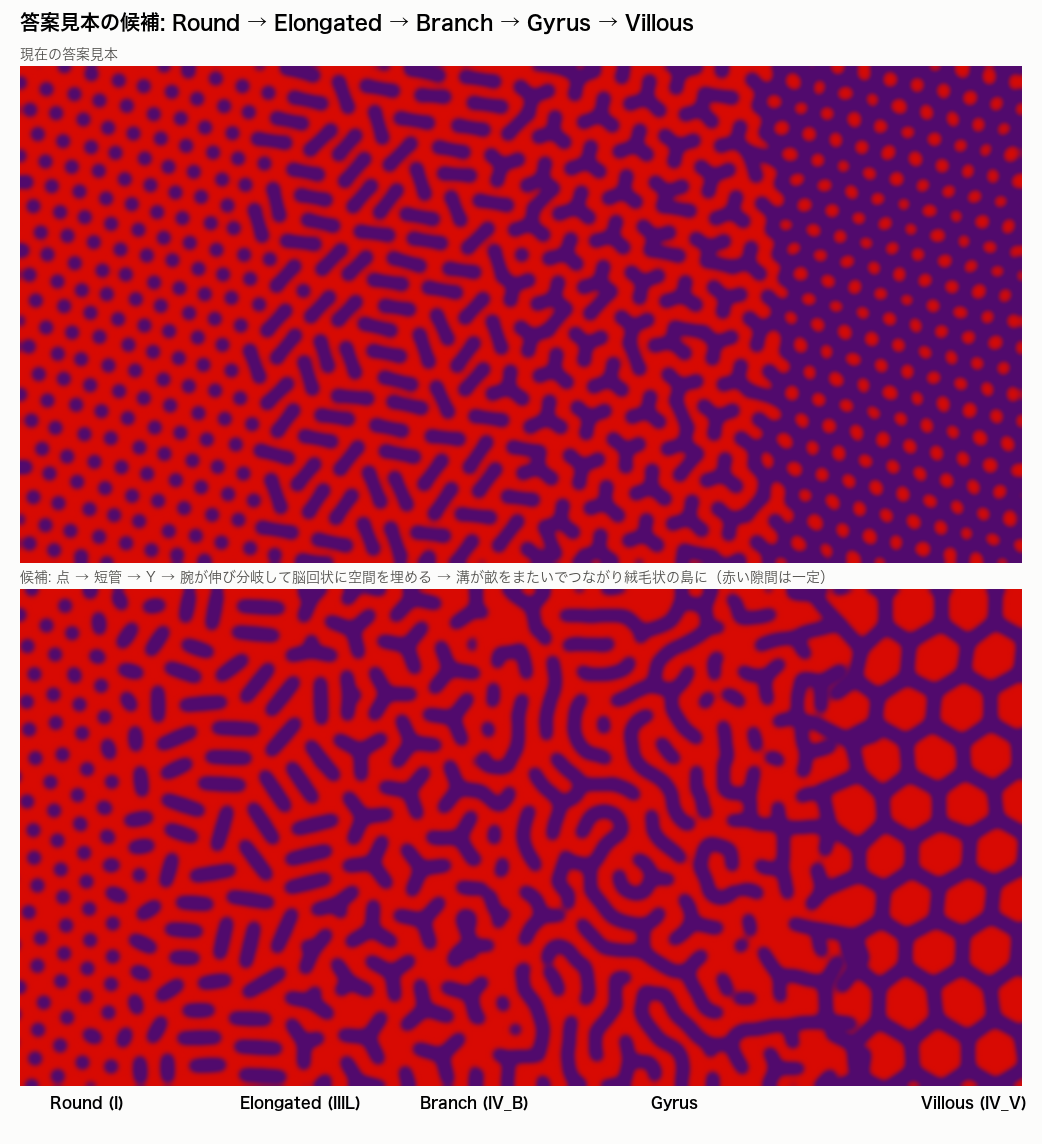
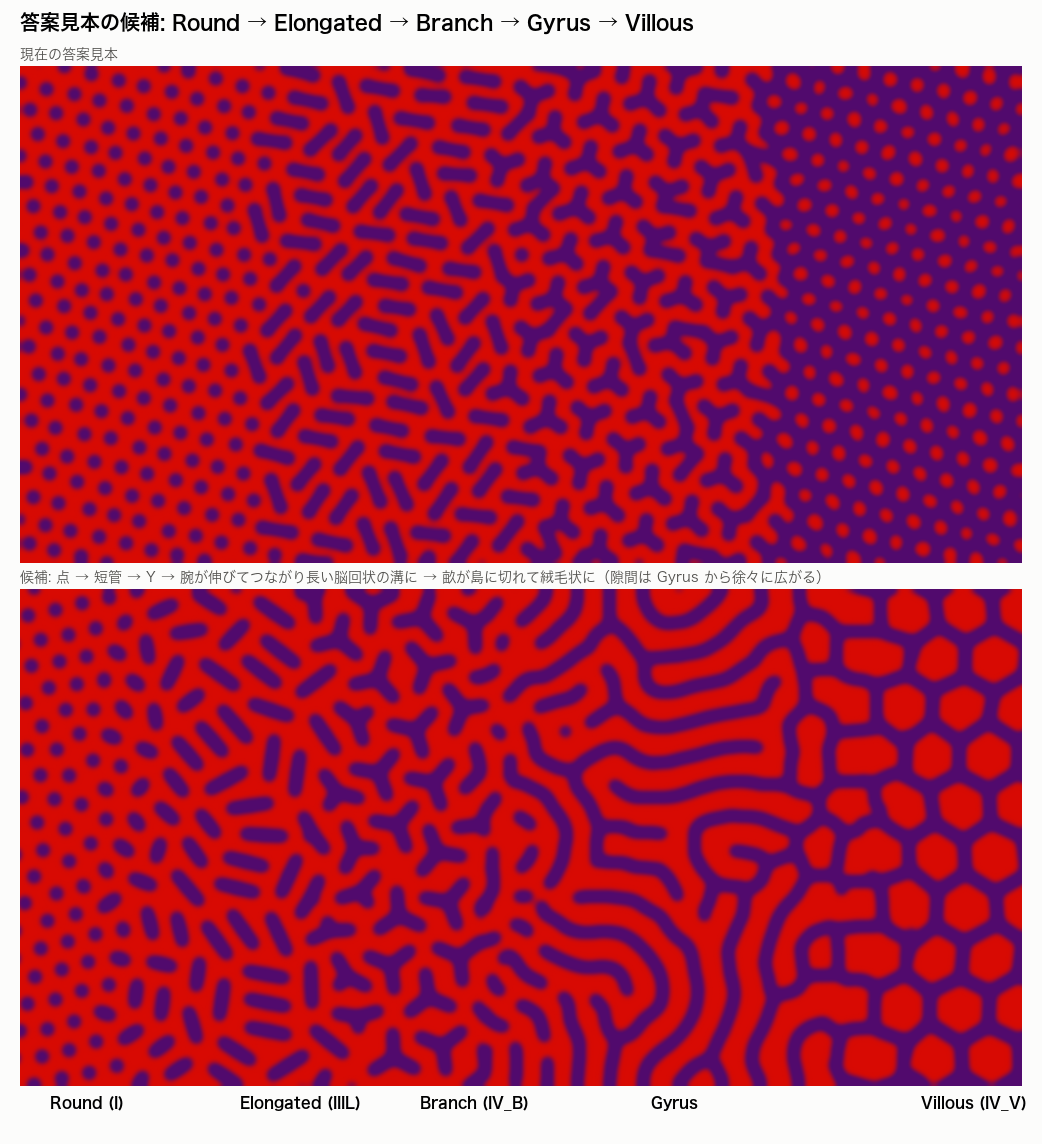
Answer image: long smooth gyrus, ridges break into villous islands
Steer the drawn answer image toward the Gemini reference image:
- the groove pitch widens within one field (D up to Branch, 1.25 D at full
  gyrus, the honeycomb row spacing at villous) by blending three
  constant-pitch Swift-Hohenberg steps
- a quadratic term breaks the red ridges into elongated islands that round
  up and lock onto the honeycomb
- longer relaxation and earlier end of groove cuts give long, smooth,
  winding gyrus grooves; the Gyrus band is wider

Goal doc: the red gap is constant only up to Branch and widens gradually
from Gyrus to Villous. Add the Gemini image as a reference.

Changed region(s): [[0.0, 0.4895, 0.9827, 0.9484]]

diff --git a/src/pitpattern/figures/make_pit_gyrus_sweep.py b/src/pitpattern/figures/make_pit_gyrus_sweep.py
@@ -2,14 +2,15 @@
 """Answer-image candidate: Round -> Elongated -> Branch -> Gyrus -> Villous (drawn target).
 
 Progression q(x) rises smoothly from 0 (left) to 4 (right).  One crypt = one pit unit;
-the red gap between pit grooves stays the Type I gap everywhere.
+the red gap between pit grooves stays the Type I gap up to Branch and widens from Gyrus on.
   q 0-1  Round -> Elongated   a dot grows into a straight tube
   q 1-2  Elongated -> Branch  a third arm sprouts, the tube opens into a Y (one fork)
   q 2-3  Branch -> Gyrus      the Y arms keep growing tip-wise, turning and occasionally
-                              forking, always keeping the gap D from every other groove,
-                              until the grooves fill space as a winding gyrus pattern
-  q 3-4  Gyrus -> Villous     groove tips bridge the red ridges to the neighbouring groove,
-                              cutting the ridges into islands (villi)
+                              forking; a Swift-Hohenberg relaxation then joins them into long,
+                              smooth, winding grooves whose pitch widens slowly (D -> 1.25 D)
+  q 3-4  Gyrus -> Villous     within the same field the pitch widens to the honeycomb spacing
+                              and a quadratic term breaks the red ridges into elongated
+                              islands, which round up and lock onto the honeycomb (villi)
 Crypt positions/orientations for q <= 2 come from the constant-gap relaxation of
 make_pit_grade_sweep; growth is a self-avoiding tip growth with a length budget that
 increases with q.  This is a drawn target, not a simulation of tissue.
@@ -83,19 +84,25 @@ def main() -> None:
     ap.add_argument("--arm-len", type=float, default=24.0, help="IV_B arm length (px)")
     ap.add_argument("--villous-area", type=float, default=0.35, help="area per crypt in villous / Branch")
     ap.add_argument("--fork", type=float, default=0.12, help="fork probability per step in gyrus")
-    ap.add_argument("--maze-steps", type=int, default=100, help="Swift-Hohenberg steps for the gyrus maze (0 = off)")
+    ap.add_argument("--maze-steps", type=int, default=180, help="Swift-Hohenberg steps for the gyrus maze (0 = off)")
     ap.add_argument("--blend", choices=["continuous", "patchy"], default="continuous")
     ap.add_argument("--m-from", type=float, default=2.2)
     ap.add_argument("--m-gain", type=float, default=3.0)
-    ap.add_argument("--h-from", type=float, default=3.0)
+    ap.add_argument("--h-from", type=float, default=3.25)
     ap.add_argument("--h-gain", type=float, default=1.6)
-    ap.add_argument("--pin", type=float, default=0.15)
-    ap.add_argument("--g-villous", type=float, default=0.0, help="quadratic term at full villous (field method)")
-    ap.add_argument("--g-from", type=float, default=3.0)
+    ap.add_argument("--pin", type=float, default=0.25)
+    ap.add_argument("--g-villous", type=float, default=-1.5, help="quadratic term at full villous (< 0: red islands)")
+    ap.add_argument("--lam-from", type=float, default=2.7, help="q where the groove pitch starts to widen")
+    ap.add_argument("--lam-gyrus", type=float, default=1.25, help="groove pitch at full gyrus (units of D)")
+    ap.add_argument("--lam-villous", type=float, default=0.0, help="groove pitch at villous (units of D); 0 = honeycomb row spacing")
+    ap.add_argument("--q-knots", type=float, nargs=4, default=[0.57, 0.73, 0.92, 1.0],
+                    help="u where q reaches 3, leaves 3, reaches 4, ends")
+    ap.add_argument("--no-honeycomb", action="store_true", help="never paste the drawn honeycomb; villous comes from the field")
+    ap.add_argument("--g-from", type=float, default=2.95)
     ap.add_argument("--g-gain", type=float, default=1.2)
     ap.add_argument("--seg-short", type=float, default=1.0, help="maze segment length at gyrus onset (units of D)")
     ap.add_argument("--seg-long", type=float, default=6.0, help="maze segment length just before cuts stop (units of D)")
-    ap.add_argument("--cut-until", type=float, default=3.3, help="no cuts beyond this q (long maze into villous)")
+    ap.add_argument("--cut-until", type=float, default=2.9, help="no cuts beyond this q (long maze into villous)")
     ap.add_argument("--maze-g", type=float, default=0.0, help="quadratic term (favours junctions)")
     ap.add_argument("--maze-r", type=float, default=0.3, help="Swift-Hohenberg control parameter")
     ap.add_argument("--maze-cover", type=float, default=0.0, help="purple fraction of the maze (groove width / spacing)")
@@ -110,7 +117,7 @@ def main() -> None:
 
     def q_of(x):
         u = (x - pad) / Wv
-        return np.interp(u, [0.0, 0.03, 0.20, 0.23, 0.31, 0.43, 0.54, 0.68, 0.88, 1.0],
+        return np.interp(u, [0.0, 0.03, 0.20, 0.23, 0.31, 0.43, *a.q_knots],
                          [0, 0, 1, 1, 2, 2, 3, 3, 4, 4])
 
     def expand(qq):
@@ -376,6 +383,13 @@ def main() -> None:
         dt = 0.3
         den = 1 - dt * (lin - 1)
         qx = q_of(np.arange(Wb, dtype=float))
+        # groove pitch lam(x): D up to the gyrus onset, lam_gyrus at full gyrus, the honeycomb
+        # row spacing at villous.  The step is a blend of three constant-pitch steps.
+        lam_v = a.lam_villous * D if a.lam_villous > 0 else 1.5 * b
+        levels = np.array([D, max(a.lam_gyrus * D, D + 1e-3), max(lam_v, a.lam_gyrus * D + 2e-3)])
+        lam_x = np.interp(qx, [a.lam_from, 3.0, 4.0], levels)
+        dens = [1 - dt * (a.maze_r - (1 - K2 / (2 * np.pi / L_) ** 2) ** 2 - 1) for L_ in levels]
+        wts = [np.interp(lam_x, levels, np.eye(3)[i])[None, :] for i in range(3)]
         if a.blend == "continuous":
             # one field for Branch -> Gyrus -> Villous: the relaxation rate m(x) rises from 0
             # (trees kept) to 1 (equal-spacing maze); towards Villous a pinning h(x) pulls the
@@ -390,9 +404,8 @@ def main() -> None:
             # of red islands within the same field (labyrinth -> hexagonal islands)
             g_x = a.g_villous * smooth(a.g_gain * (qx - a.g_from))[None, :]
             for _ in range(a.maze_steps):
-                u_sh = np.fft.ifft2((np.fft.fft2(u) + dt * np.fft.fft2(u - u ** 3 + a.maze_g * u * u)) / den).real
-                if a.g_villous:
-                    u_sh = u_sh + dt * g_x * u * u
+                F = np.fft.fft2(u) + dt * np.fft.fft2(u - u ** 3 + (a.maze_g + g_x) * u * u)
+                u_sh = sum(w_ * np.fft.ifft2(F / d_).real for w_, d_ in zip(wts, dens))
                 u = u + np.maximum(m_x, h_x) * (u_sh - u) + a.pin * h_x * (T - u)
         else:
             u0 = 2 * cv2.GaussianBlur(field, (0, 0), 2.0) - 1
@@ -441,7 +454,7 @@ def main() -> None:
         maze = cv2.resize(mm.astype(np.float32), (Wb, Hb), interpolation=cv2.INTER_AREA)
         if a.blend == "continuous":
             act = np.maximum(m_x, h_x)
-            keep = (act < 0.02) | (h_x > 0.98)                 # untouched trees / pure honeycomb
+            keep = (act < 0.02) | ((h_x > 0.98) & (not a.no_honeycomb))   # untouched trees / pure honeycomb
             field = np.where(np.broadcast_to(keep, field.shape), field, maze)
             qx = None
         wx = None if qx is None else smooth(2.0 * (qx - 2.5)) * (1 - smooth(1.6 * (qx - 3.05)))
@@ -475,7 +488,7 @@ def main() -> None:
     d.text((20, 12), "答案見本の候補: Round → Elongated → Branch → Gyrus → Villous", fill="black", font=font(20, True))
     d.text((20, 46), "現在の答案見本", fill="#52514e", font=font(14))
     sheet.paste(target, (20, 66))
-    d.text((20, 72 + Hv), "候補: 点 → 短管 → Y → 腕が伸び分岐して脳回状に空間を埋める → 溝が畝をまたいでつながり絨毛状の島に（赤い隙間は一定）",
+    d.text((20, 72 + Hv), "候補: 点 → 短管 → Y → 腕が伸びてつながり長い脳回状の溝に → 畝が島に切れて絨毛状に（隙間は Gyrus から徐々に広がる）",
            fill="#52514e", font=font(14))
     sheet.paste(Image.fromarray(rgb), (20, 92 + Hv))
     for cx_, nm in zip((0.03, 0.22, 0.40, 0.63, 0.90), ("Round (I)", "Elongated (IIIL)", "Branch (IV_B)", "Gyrus", "Villous (IV_V)")):

diff --git a/docs/pit_pattern_goal.md b/docs/pit_pattern_goal.md
@@ -12,7 +12,7 @@
 Round (I)  →  Elongated (IIIL)  →  Branch (IV_B)  →  Gyrus (IV)  →  Villous (IV_V)
 ```
 
-**の順に、なめらかに変わる。溝（pit）の太さは全段階で一定、溝どうしの赤い隙間も Gyrus まで一定で、変わるのは長さ・分岐・つながり方だけ。**
+**の順に、なめらかに変わる。溝（pit）の太さは全段階で一定。溝どうしの赤い隙間は Branch まで一定で、Gyrus から Villous に向けて徐々に広がる。それ以外に変わるのは長さ・分岐・つながり方だけ。**
 
 - 「Type らしい絵を別々の設定で描く」ことではない。スライド 6 の「I → IIIL → IV_B → IV_V の変化は連続的に表現できる」が本質。
 - 想定する組織像（2026-10-10）: 陰窩の底部の増殖帯は進行しても I 型のような均一な点の並びのまま。表層に上がるにつれ陰窩の口が開いて、1 つの陰窩の口が伸び（IIIL）、分岐し（IV_B）、さらに伸びて脳回状に詰まり（Gyrus）、隣と融合して粘膜が島（絨毛）になる（IV_V）。**陰窩の数は保たれ**、隆起型では表面積が増えるぶん単位面積あたりの陰窩の数が減る。
@@ -22,15 +22,15 @@ Round (I)  →  Elongated (IIIL)  →  Branch (IV_B)  →  Gyrus (IV)  →  Vill
 
 ![答案見本: Round → Elongated → Branch → Gyrus → Villous](images/pit_gyrus_sweep.png)
 
-*左から Round → Elongated → Branch → Gyrus → Villous。紫 = pit・溝、赤 = 粘膜。プログラムによる描画で、シミュレーション結果ではない（[`src/pitpattern/figures/make_pit_gyrus_sweep.py`](../src/pitpattern/figures/make_pit_gyrus_sweep.py)）。点の間隔 27.5 px、溝の太さ約 13 px、色はスライド 6 の実測値。上下比較は [`pit_gyrus_sweep_compare.png`](images/pit_gyrus_sweep_compare.png)。*
+*左から Round → Elongated → Branch → Gyrus → Villous。紫 = pit・溝、赤 = 粘膜。プログラムによる描画で、シミュレーション結果ではない（[`src/pitpattern/figures/make_pit_gyrus_sweep.py`](../src/pitpattern/figures/make_pit_gyrus_sweep.py)）。点の間隔 27.5 px、溝の太さ約 13 px、色はスライド 6 の実測値。溝の間隔は Branch まで点の間隔と同じで、Gyrus で約 1.25 倍、Villous で蜂の巣の間隔まで広がる。上下比較は [`pit_gyrus_sweep_compare.png`](images/pit_gyrus_sweep_compare.png)。*
 
 | 段階 | 目標像 |
 |---|---|
 | **Round（I）** | 赤地に紫の丸い点が、ほぼ規則的に並ぶ |
 | **Elongated（IIIL）** | 各陰窩の点がその場で伸びた**まっすぐな管**。短い楕円から長い管（点の約 2.5 倍）へ**徐々に**伸びる。管どうしは離れ、赤い隙間は I と同じ |
 | **Branch（IV_B）** | 各陰窩が**腕の長い Y**（分岐 1 回、腕は溝の太さの約 2 倍）。Y どうしは離れ、赤い隙間は I と同じ |
-| **Gyrus（IV）** | Y の腕がさらに伸びて曲がり・分岐し、**溝がぎっしり詰まった迷路**になる。迷路は**短い断片から長い迷路へ**徐々に長くなる。溝の太さと赤い隙間は一定（平行ストライプではない） |
-| **Villous（IV_V）** | 溝どうしが融合して網になり、**赤い粘膜が島（絨毛）として残る**。島は I の点より大きい（現在の見本で等価径約 2.5 倍） |
+| **Gyrus（IV）** | Y の腕がさらに伸びて隣とつながり、**長くなめらかな溝が並走しながら曲がり・分岐する脳回状の模様**になる。短い断片から長い溝へ徐々に長くなる。溝の太さは一定、溝の間隔は I の約 1.25 倍まで徐々に広がる（まっすぐな平行ストライプではない） |
+| **Villous（IV_V）** | 畝が横切る溝で切られて**細長い島**になり、丸まって**規則的な島（絨毛）**に落ち着く。溝は一定幅の網になる。島は I の点より大きい（現在の見本で等価径約 2.5 倍） |
 
 - **各段階はその形態だけで模様を作る**。隣の形態が混ざってよいのは移行領域だけ。
 - **単位は勝手に伸び続けない**。管・Y・迷路の長さは \(p\) で決まり、時間がたっても変わらない。
@@ -46,9 +46,9 @@ Round (I)  →  Elongated (IIIL)  →  Branch (IV_B)  →  Gyrus (IV)  →  Vill
 ### 3.1 必須（Must）
 
 - [ ] \(p\) の連続変化で **Round → Elongated → Branch → Gyrus → Villous** の順に移る（逆行しない、段階を飛ばさない）
-- [ ] **なめらかさ**: 隣の段階の間に中間形態がある（管が徐々に伸びる、Y の腕が伸びて迷路になる、迷路が徐々に長くなり網になる）
+- [ ] **なめらかさ**: 隣の段階の間に中間形態がある（管が徐々に伸びる、Y の腕が伸びてつながり脳回になる、畝が細長い島に切れて丸い島になる）
 - [ ] **段階の純度**: Elongated はほぼ管だけ、Branch はほぼ Y だけ（I の点が多く残らない）
-- [ ] **隙間一定**: Gyrus まで、溝どうしの赤い隙間が I の点どうしの隙間とほぼ同じ（ぶつからない、空白を残さない）
+- [ ] **隙間**: Branch まで、溝どうしの赤い隙間が I の点どうしの隙間とほぼ同じ。Gyrus から Villous へは**徐々に**広がる（急に広がらない）。どの段階でも溝どうしがぶつからず、大きな空白を残さない
 - [ ] **幅**: 溝の太さが全段階で一定（`feature_width_median / w₀ ≤ 1.5`、p90 ≤ 2.0。w₀ は I の pit の開口径）。数珠状・塊にならない
 - [ ] **Villous**: 一定幅の溝の網に、粘膜の島が規則的に残る
 - [ ] 十分長い時間のあとも上記が保たれる
@@ -62,7 +62,7 @@ Round (I)  →  Elongated (IIIL)  →  Branch (IV_B)  →  Gyrus (IV)  →  Vill
 |---|---|---|---|---|---|
 | 溝の太さ / w₀ | ≈ 1.0 | ≈ 1.0 | ≈ 1.0 | ≈ 1.0 | ≈ 1.0 |
 | 単位の形 | 丸（伸長比 ≲ 2） | 管（伸長比 2→4） | 三叉 1 個の Y | 分岐・屈曲した長い溝 | 網（粘膜が島） |
-| 赤い隙間 / I の隙間 | 1 | ≈ 1 | ≈ 1 | ≈ 1（空白なし） | — |
+| 溝の間隔 / I の点の間隔 | 1 | ≈ 1 | ≈ 1 | 1 → 約 1.25（空白なし） | 約 2（島の間隔） |
 | 最長成分比 | 低 | 低 | 低 | 中→高 | 高 |
 
 数値は画像とセットで読む。数値が合っていても、絵が幅暴走・平行ストライプ・空白だらけなら不合格。
@@ -75,7 +75,7 @@ Round (I)  →  Elongated (IIIL)  →  Branch (IV_B)  →  Gyrus (IV)  →  Vill
 | 分岐のない断片（[`anti_goal_dashes.png`](images/anti_goal_dashes.png)） | 線を切って Y まで消した偽 IV_B |
 | 幅の暴走（[`anti_goal_thick.png`](images/anti_goal_thick.png)） | 太い塊・塗りつぶしを IV と呼んでいる |
 | 管が最初から伸び続けて長い溝になる | スライド 6 中ほどの状態。Elongated・Branch を飛ばしている |
-| 溝どうしがぶつかる／大きな空白が残る | 隙間一定を満たさない |
+| 溝どうしがぶつかる／大きな空白が残る／隙間が急に広がる | 隙間の基準を満たさない |
 | 設定ごとに別の式・別の初期条件 | 連続パラメータ変化ではない |
 
 ### 3.4 今は対象外
@@ -90,11 +90,12 @@ Type II / II-L / II-O、III_H、IV_H（シダの葉・松毬様）、Type VI / V
 |---|---|
 | [`images/pit_gyrus_sweep.png`](images/pit_gyrus_sweep.png) | 答案見本（まずこれと見比べる）。比較図 [`pit_gyrus_sweep_compare.png`](images/pit_gyrus_sweep_compare.png) |
 | [`images/goal_rd_sweep_i_to_iv.png`](images/goal_rd_sweep_i_to_iv.png) | スライド 6。太さ・間隔・質感の参照 |
+| [`images/Gemini_Generated_Image_us446ius446ius44.jpeg`](images/Gemini_Generated_Image_us446ius446ius44.jpeg) | 生成画像による参照。Gyrus の溝の長さ・なめらかさと、Gyrus → Villous の移り方はこれに寄せた。にじみや団子状の Y など生成画像由来の乱れは規範に含めない |
 | [`images/pit_reference_sheet.png`](images/pit_reference_sheet.png) | 手元の実画像（工藤分類表・鋸歯状病変）の参照シート |
 | [`images/anti_goal_*.png`](images) | 反例（§3.3） |
 | [`serrated_pitpattern.pptx`](serrated_pitpattern.pptx) | 鋸歯状 pit の整理スライド |
 
-答案見本の変遷: [`pit_ideal_sweep.png`](images/pit_ideal_sweep.png)（2〜3 個の点をつなぐ 4 帯。IV_V = I の明暗反転）→ [`pit_gap_sweep.png`](images/pit_gap_sweep.png)（1 陰窩 = 1 単位・隙間一定）→ [`pit_grade_sweep.png`](images/pit_grade_sweep.png)（なめらかな移行・蜂の巣の Villous）→ 現行（Gyrus を新設、2026-10-10）。旧版の [`goal_target_sweep.png`](images/goal_target_sweep.png)・[`goal_schematic_i_iiil_ivb_ivv.png`](images/goal_schematic_i_iiil_ivb_ivv.png) も規範ではない。
+答案見本の変遷: [`pit_ideal_sweep.png`](images/pit_ideal_sweep.png)（2〜3 個の点をつなぐ 4 帯。IV_V = I の明暗反転）→ [`pit_gap_sweep.png`](images/pit_gap_sweep.png)（1 陰窩 = 1 単位・隙間一定）→ [`pit_grade_sweep.png`](images/pit_grade_sweep.png)（なめらかな移行・蜂の巣の Villous）→ Gyrus を新設（隙間は Gyrus まで一定、2026-10-10）→ 現行（長くなめらかな脳回、Gyrus から隙間が広がる、畝が島に切れる Villous。2026-10-10）。旧版の [`goal_target_sweep.png`](images/goal_target_sweep.png)・[`goal_schematic_i_iiil_ivb_ivv.png`](images/goal_schematic_i_iiil_ivb_ivv.png) も規範ではない。
 
 **実績（シミュレーション結果。規範ではない）**
 
